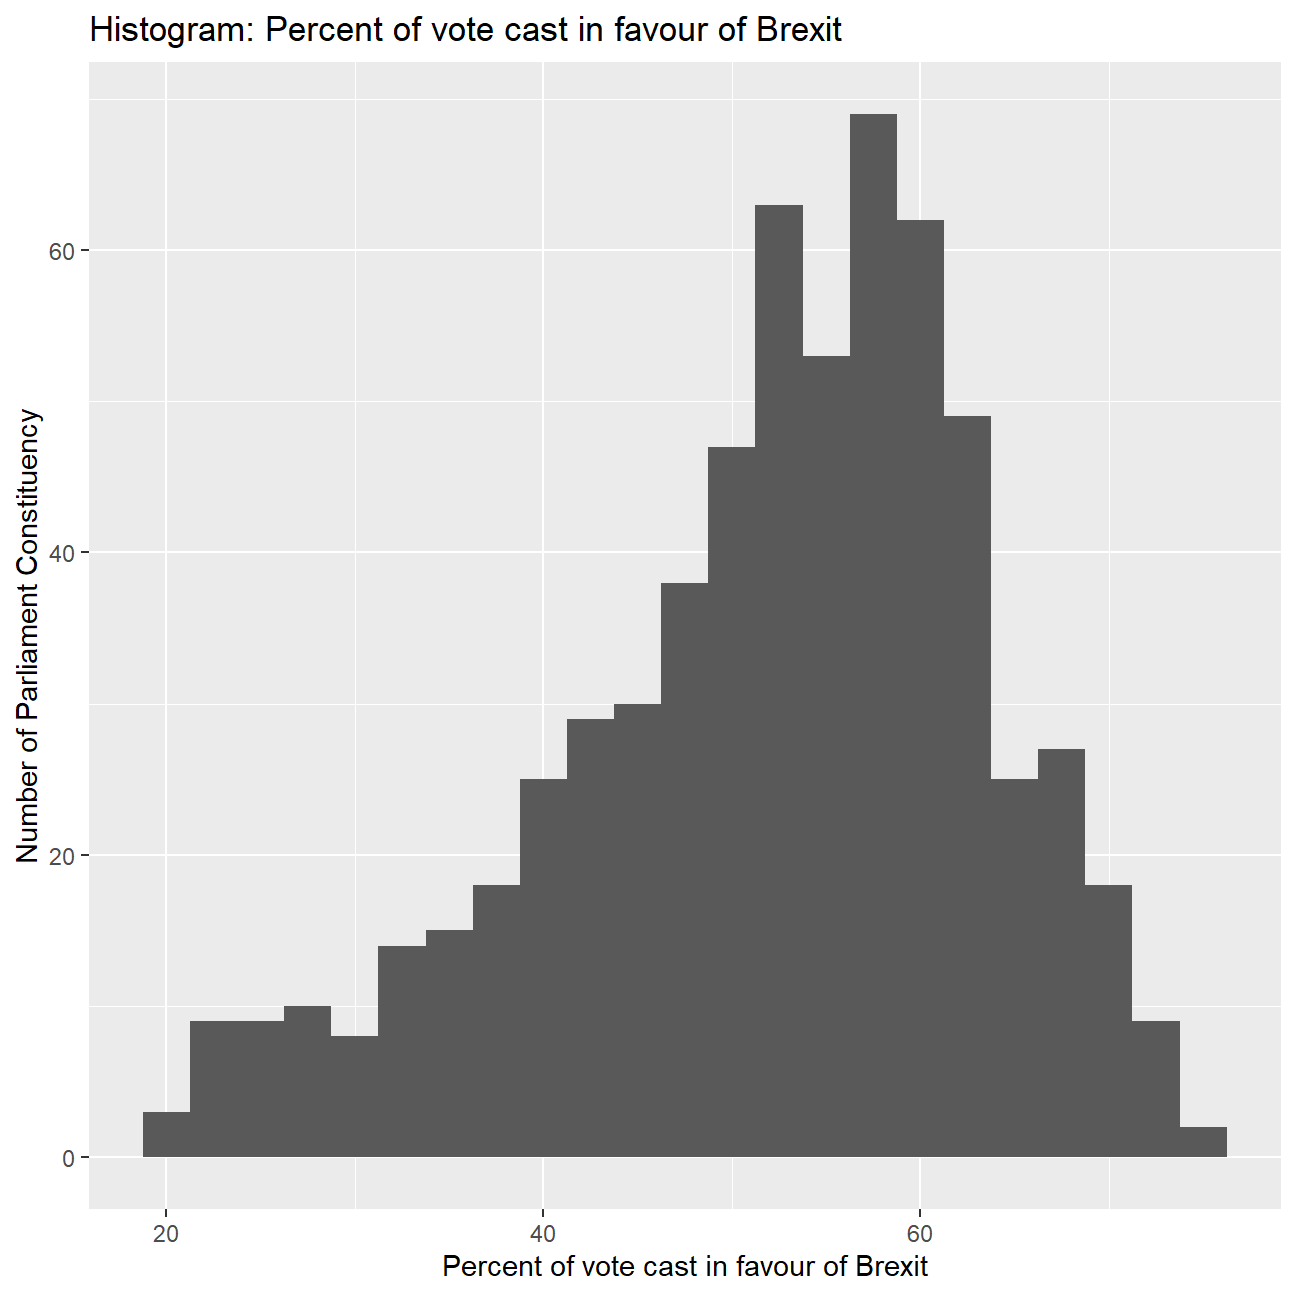
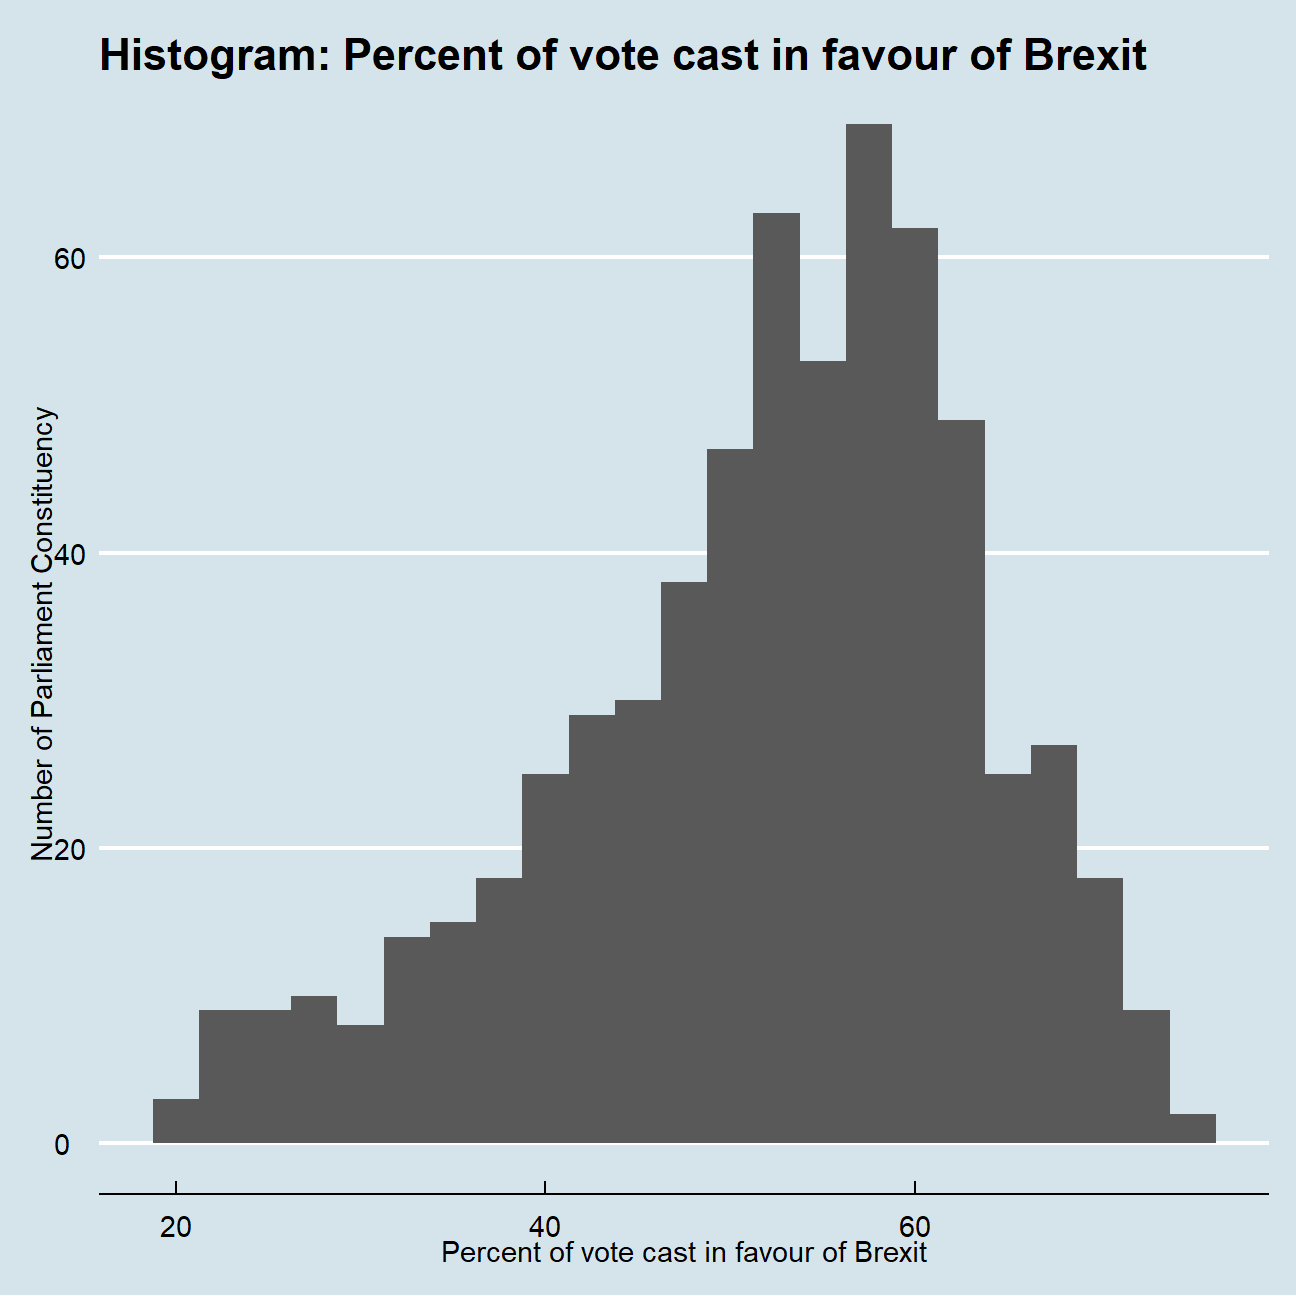
commit

diff --git a/content/blogs/blog6.html b/content/blogs/blog6.html
@@ -43,8 +43,8 @@ glimpse(brexit_results)</code></pre>
   geom_histogram(binwidth = 2.5)+
   labs(title = &quot;Histogram: Percent of vote cast in favour of Brexit&quot;,
        x = &quot;Percent of vote cast in favour of Brexit&quot;,
-       y = &quot;Number of Parliament Constituency&quot;) +
-  NULL
+       y = &quot;Number of Parliament Constituency&quot;)+
+  theme_economist()
   
 Plot2</code></pre>
 <p><img src="/blogs/blog6_files/figure-html/brexit_histogram-1.png" width="648" style="display: block; margin: auto;" /></p>
@@ -52,7 +52,8 @@ Plot2</code></pre>
   geom_density()+
   labs(title = &quot;Density Plot: Percent of vote cast in favour of Brexit&quot;,
        x = &quot;Percent of vote cast in favour of Brexit&quot;,
-       y = &quot;Density&quot;) </code></pre>
+       y = &quot;Density&quot;)+
+  theme_economist()</code></pre>
 <p><img src="/blogs/blog6_files/figure-html/brexit_histogram-2.png" width="648" style="display: block; margin: auto;" /></p>
 </div>
 <div id="correlation-between-leave-share-and-native-born-residents" class="section level2">
@@ -70,12 +71,10 @@ Plot2</code></pre>
 <pre class="r"><code>ggplot(brexit_results, aes(x = born_in_uk, y = leave_share)) +
   geom_point(alpha=0.3) +
   geom_smooth(method = &quot;lm&quot;) +
-  theme_bw() +
-  labs(title = &quot;Scatterplot: Relationship between Percent of vote cast in favour of Brexit 
-       and proportion of native born residents&quot;,
+  theme_economist() +
+  labs(title = &quot;Scatterplot: Relationship between leave share and\n proportion of native born residents&quot;,
        x = &quot;Proportion of native born residents&quot;,
-       y = &quot;Percent of vote cast in favour of Brexit&quot;) +
-  NULL</code></pre>
+       y = &quot;Percent of vote cast in favour of Brexit&quot;)</code></pre>
 <p><img src="/blogs/blog6_files/figure-html/brexit_immigration_plot-1.png" width="648" style="display: block; margin: auto;" /></p>
 <blockquote>
 <p>The trend line in the scatterplot above shows a positive relationship between the percent of the vote cast in favour of Brexit and the proportion of native-born residents in a constituency. The result is aligned with the explanation of Brexit mentioned above, as the constituencies with a higher percentage of the vote cast in favour of Brexit has more native-born residents, who are opposed to the EU’s open border policy and increase immigration. Fundamentally, people are afraid that the open border policy and migration would lead to a higher unemployment rate for UK citizens and greater income inequality.</p>
